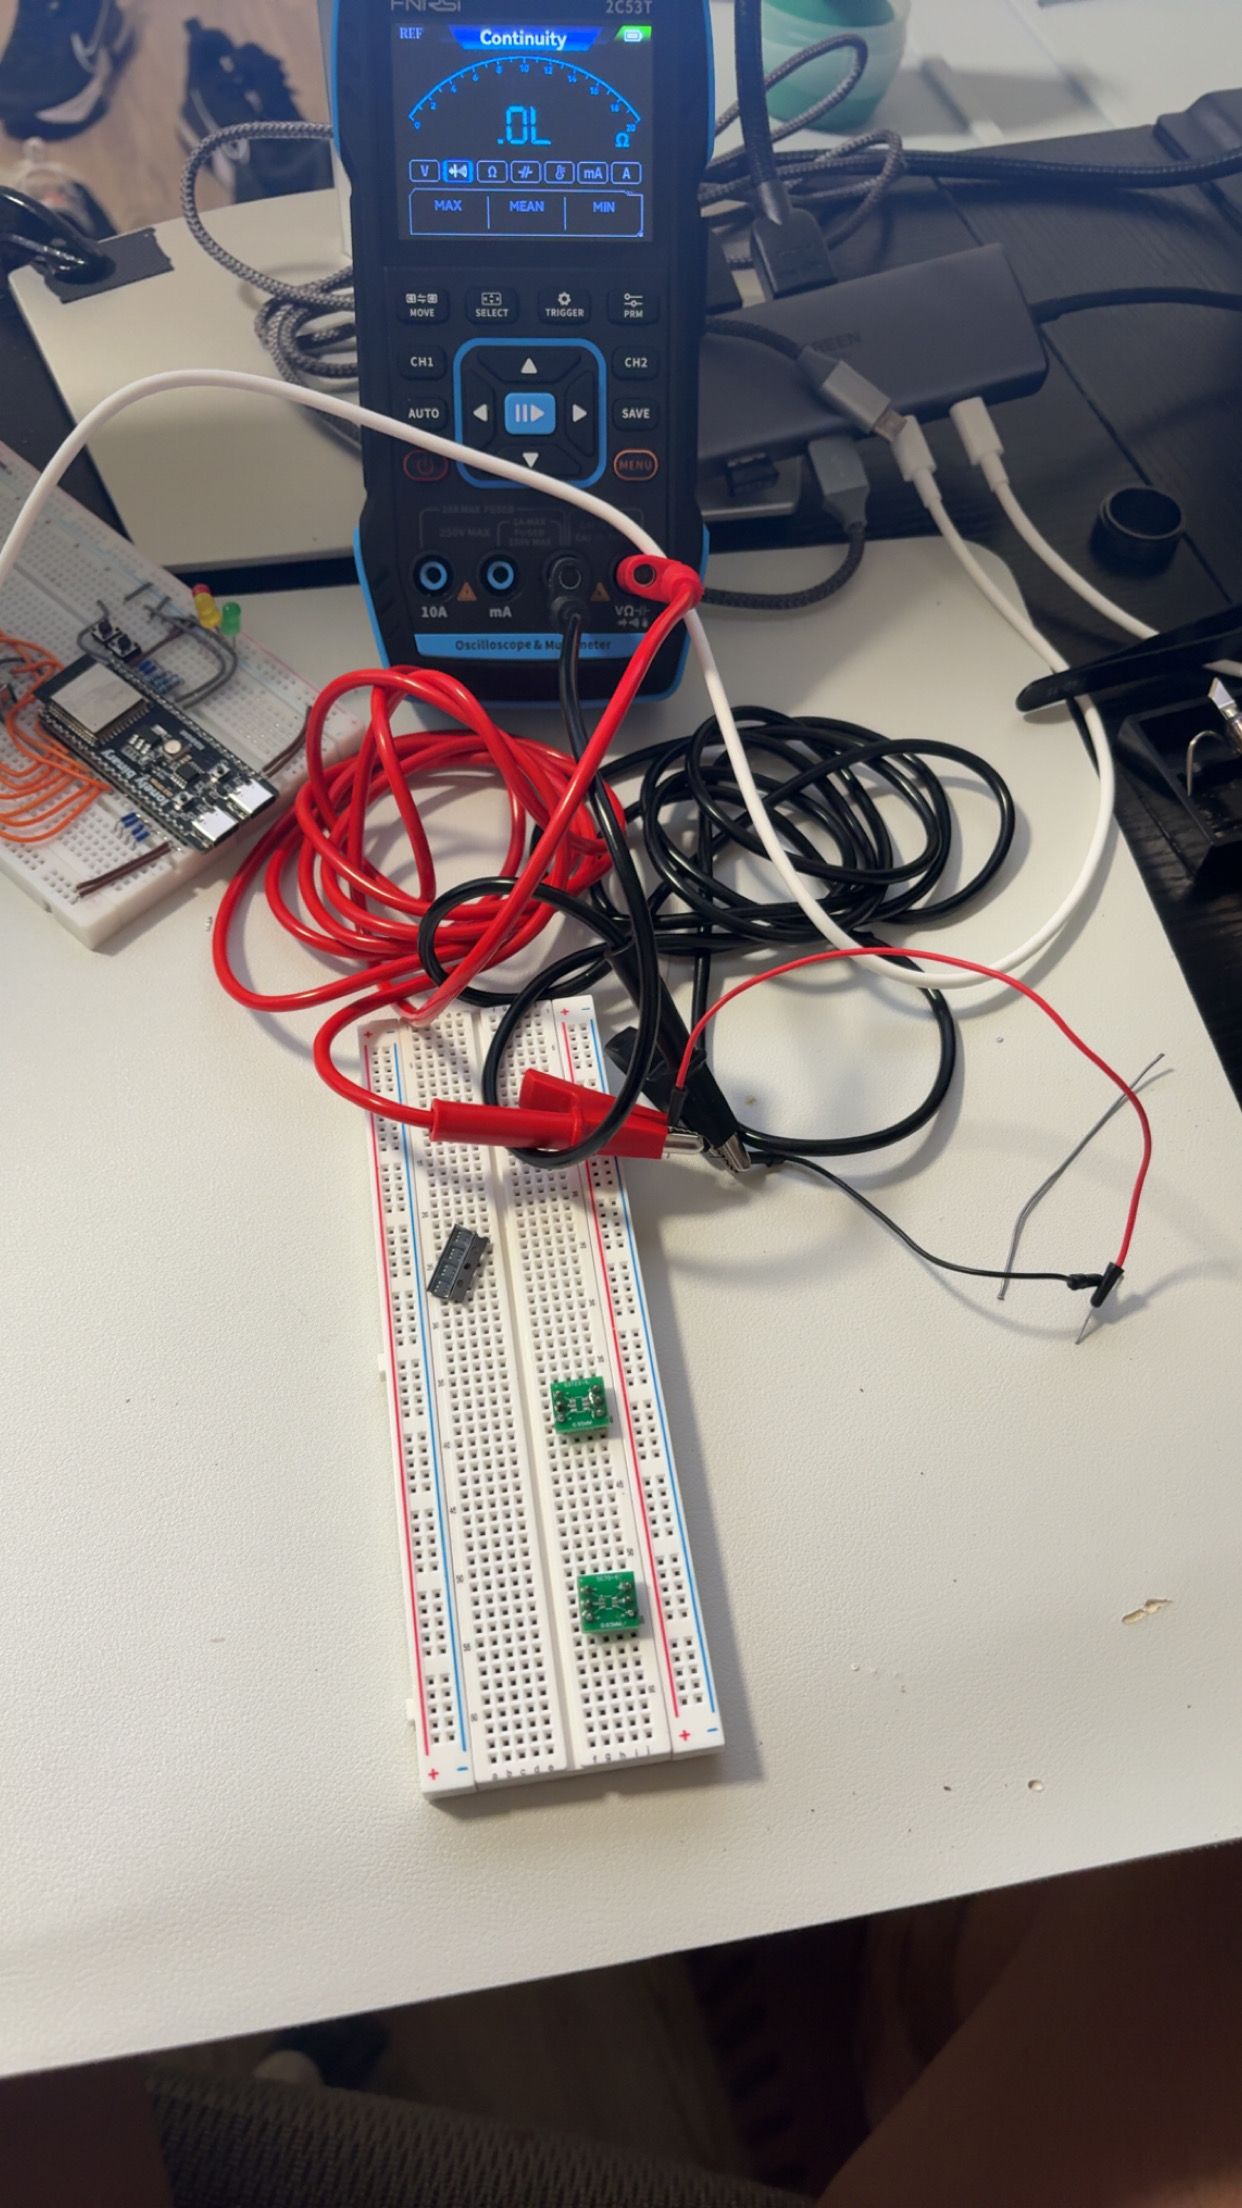
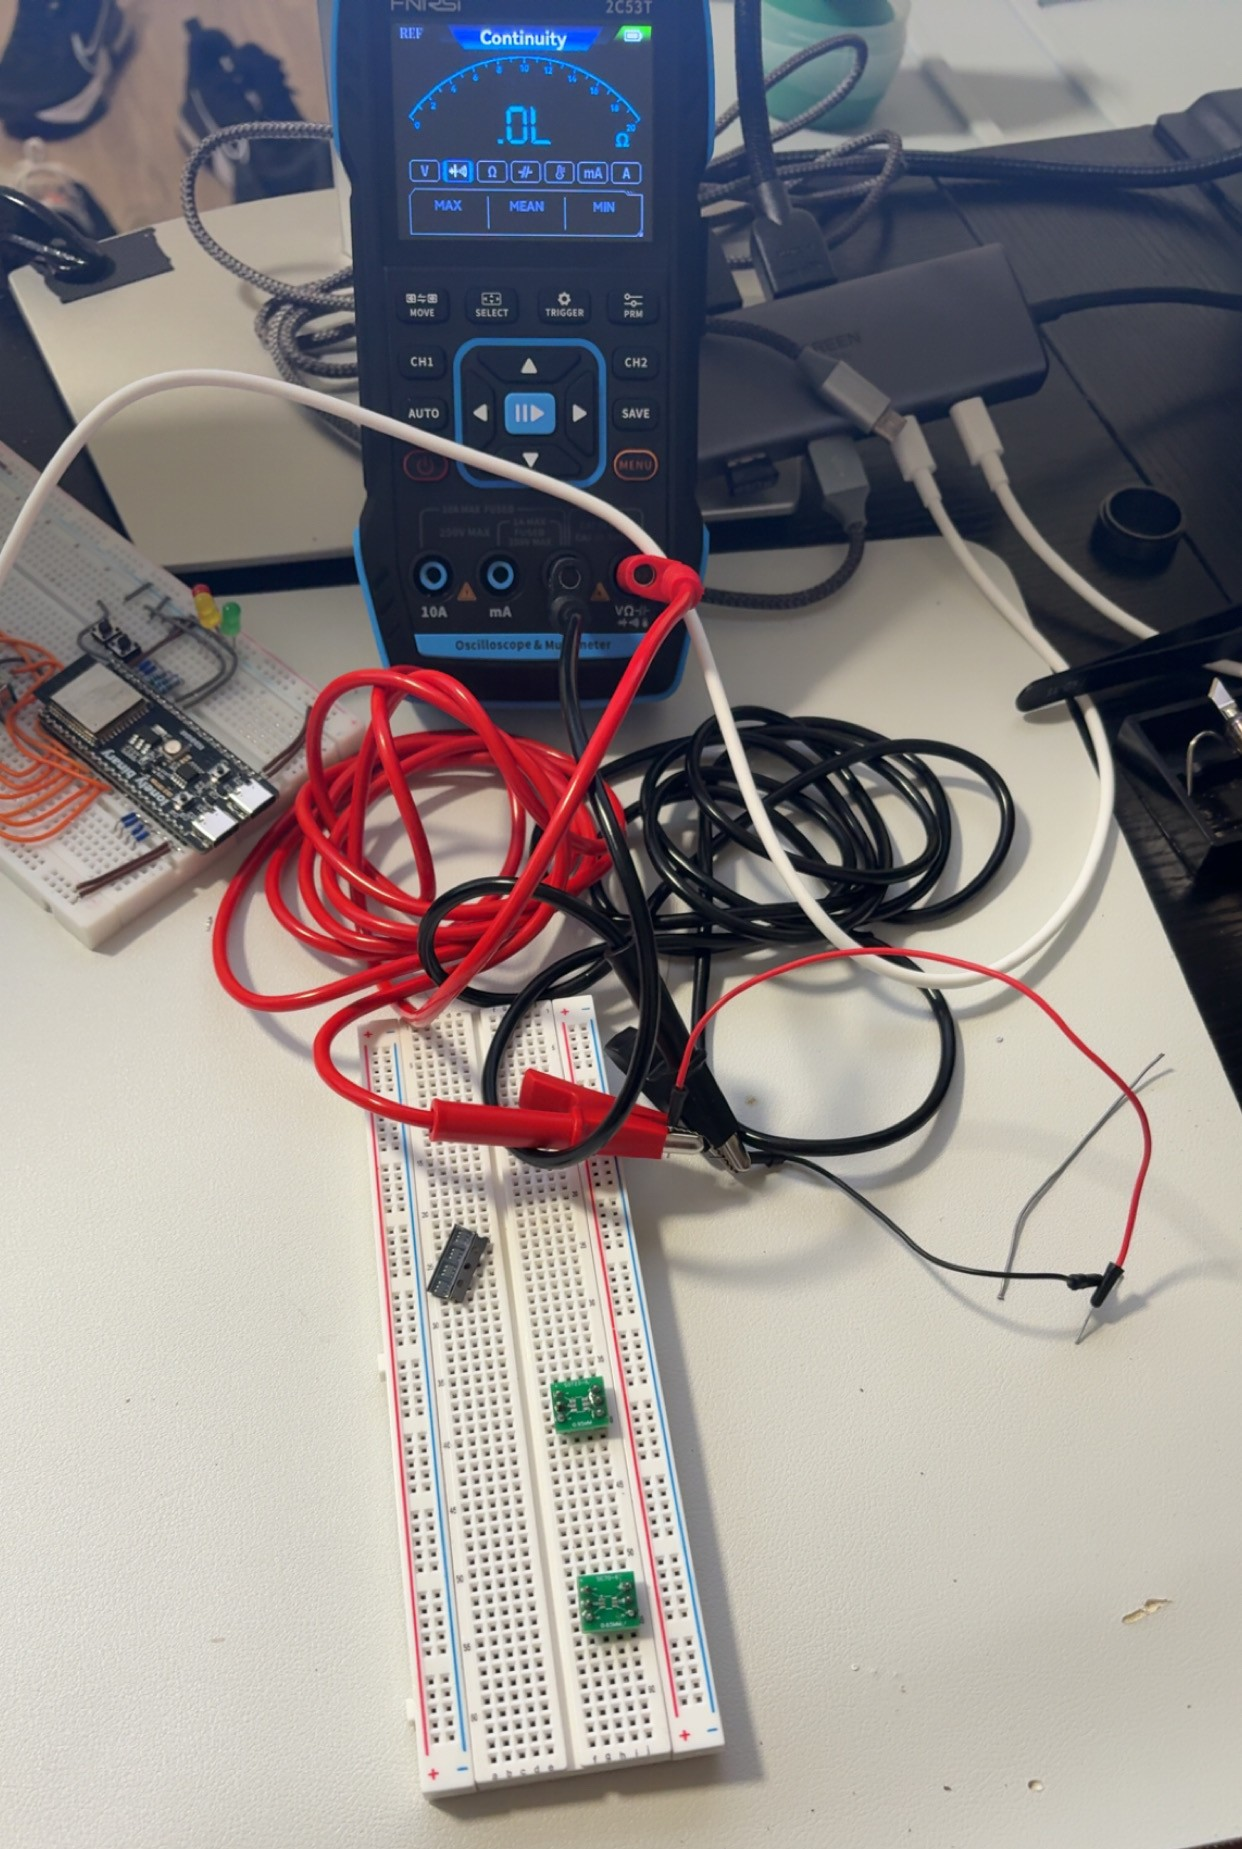
shared: edge trigger with hysteresis and sub-sample crossing position

diff --git a/firmware/shared/oscil_trigger.c b/firmware/shared/oscil_trigger.c
@@ -1,0 +1,31 @@
+#include "oscil_trigger.h"
+#include <stddef.h>
+
+long trig_find(const uint16_t *buf, size_t from, size_t to, const trig_cfg_t *cfg, float *frac) {
+    if (from == 0) from = 1; //need a previous sample
+    int armed  = 0;
+    int lo = (int)cfg->level - cfg->hyst; //arm threshold, rising
+    int hi = (int)cfg->level + cfg->hyst; // arm threshold, falling
+
+    for(size_t i = from; i < to; i++) {
+        int s = buf[i];
+        if(cfg->edge == TRIG_RISING) {
+            if(s < lo) armed = 1;
+            else if (armed && s >= cfg->level) goto hit;
+        } else {
+            if( s > hi) armed = 1;
+            else if (armed && s <= cfg->level) goto hit;
+        }
+        continue;
+hit:
+        if(frac) {
+            float a = buf[i-1];
+            float b = buf[i];
+            float f = (b != a) ? ( (float)cfg->level -a) / (b-a) : 0.0f;
+            *frac = f < 0.0f? 0.0f : (f > 1.0f ? 1.0f: f);
+        }
+        return (long) i;
+    }
+    return -1;
+
+}

diff --git a/firmware/shared/oscil_trigger.h b/firmware/shared/oscil_trigger.h
@@ -1,0 +1,17 @@
+#pragma once
+//Edge trigger with hysteresis adn sub-sample position.  Pure C, no ESP-IDf: host-testable
+#include <stdint.h>
+#include <stddef.h>
+
+typedef enum { TRIG_RISING, TRIG_FALLING } trig_edge_t;
+
+typedef struct {
+    uint16_t level; // ADC code
+    uint16_t hyst;  // codes
+    trig_edge_t edge;
+} trig_cfg_t ;
+
+// Searches buf[from .. to-1].  Returns he index i of the first sample at or past the level
+//after arming, or -1 *frac (may be NULL) gets the crossing between i-1 and i, 0..1, so the 
+// crossing is at (i-1) + *frac
+long trig_find(const uint16_t *buf, size_t from, size_t to, const trig_cfg_t *cfg, float *frac);
